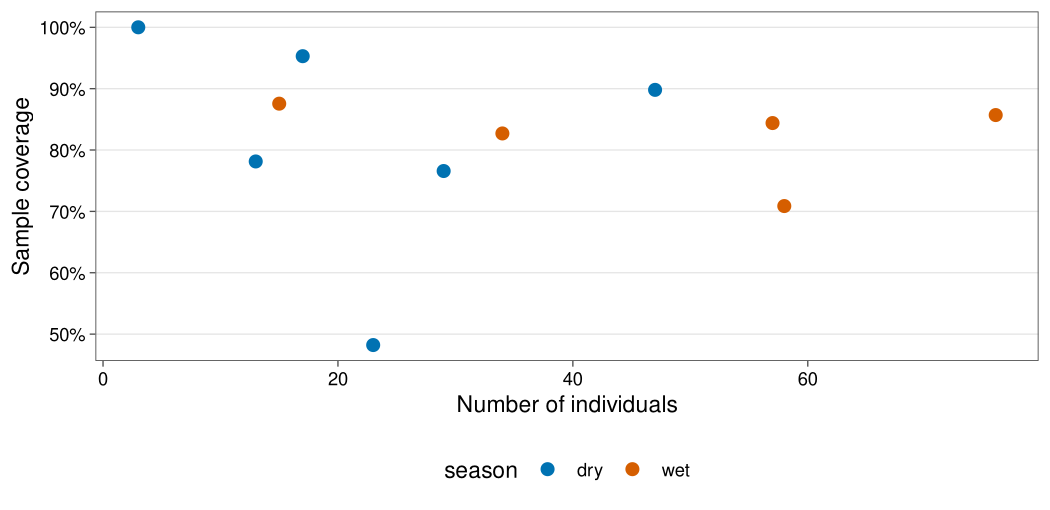
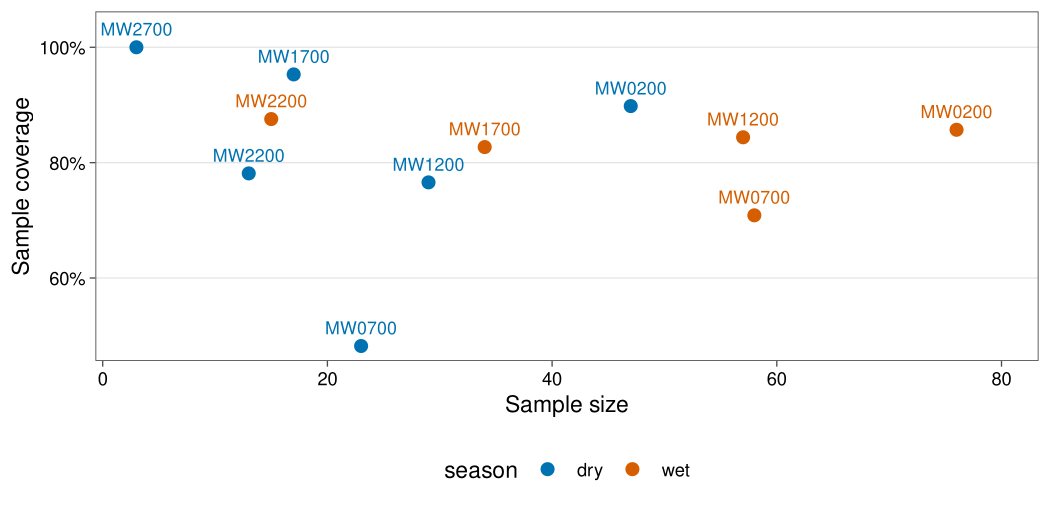
Fix clipped plot trends, clarify coverage and beta plots, fix mobile sidebar
- Distance decay: zoom with coord_cartesian() instead of scale limits,
  which deleted parts of the trend and band ("Removed rows" warning), and
  fit a quasibinomial (logit) GLM so trends stay within 0-1. Rarefaction
  and profile plots use expand_limits() for the same reason.
- Sample coverage: label points by site and use a neutral "Sample size"
  axis title; beta_multi(): print turnover, nestedness and total on bars.
- Website: on screens narrower than 768 px the sidebar and "On this page"
  contents now appear first in a compact box instead of after the whole
  page; wide tables and code scroll inside the main column.
- Test that plots render without dropping data.

diff --git a/pkgdown/extra.css b/pkgdown/extra.css
@@ -17,6 +17,13 @@
 .dropdown-header { font-size: .72rem; text-transform: uppercase; letter-spacing: .06em; color: var(--td-teal); }
 .dropdown-item { border-radius: .35rem; }
 
+/* Layout: grid columns are flex items, which by default never shrink below
+   their widest content. Let the main column shrink so wide tables or code
+   scroll inside it instead of pushing the sidebar below the page. */
+main#main { min-width: 0; }
+main table { display: block; max-width: 100%; overflow-x: auto; }
+pre { overflow-x: auto; }
+
 /* Typography and layout */
 main h1, main h2, main h3 { letter-spacing: -.015em; }
 main h2 { margin-top: 2.2rem; padding-bottom: .35rem; border-bottom: 1px solid var(--bs-border-color); }
@@ -51,3 +58,25 @@ main img:not(.logo) { border-radius: .5rem; }
 
 /* Footer */
 footer { border-top: 1px solid var(--bs-border-color); margin-top: 3rem; padding-top: 1.2rem; font-size: .88rem; }
+
+/* Narrow screens (below Bootstrap's md breakpoint): pkgdown stacks the
+   sidebar after the content, so on a long page the links, citation and the
+   "On this page" contents end up thousands of pixels down. Show them first,
+   in a compact form, as documentation sites usually do. */
+@media (max-width: 767.98px) {
+  .row > aside { order: -1; position: static; margin: 4.5rem 0 0;
+    padding: .9rem 1rem; max-height: none;
+    border: 1px solid var(--bs-border-color); border-radius: .6rem;
+    background: var(--td-surface); }
+  .row > aside h2 { font-size: .75rem; text-transform: uppercase;
+    letter-spacing: .06em; color: var(--td-teal); margin: .6rem 0 .3rem;
+    border: 0; padding: 0; }
+  .row > aside h2:first-child { margin-top: 0; }
+  .row > aside ul.list-unstyled { display: flex; flex-wrap: wrap;
+    gap: .25rem 1rem; margin-bottom: .2rem; }
+  .row > aside ul.list-unstyled li { margin: 0; }
+  .row > aside .dev-status ul { gap: .3rem; }
+  .row > aside nav#toc { max-height: 40vh; overflow-y: auto; }
+  .row > aside + main, .row > main { margin-top: 0; }
+  .row > main > .page-header, .row > main > .section > .page-header { margin-top: 1.25rem; padding-top: 0; }
+}

diff --git a/README.md b/README.md
@@ -293,10 +293,7 @@ nestedness.
 ### Distance decay
 
 Pairwise total, turnover and nestedness dissimilarity against elevation
-difference, with linear trends.
-
-    #> Warning: Removed 66 rows containing missing values or values outside the scale range
-    #> (`geom_smooth()`).
+difference, with quasibinomial (logit) trends that stay within 0-1.
 
 <img src="man/figures/README-beta-decay-1.png" alt="Distance decay" width="100%" />
 
